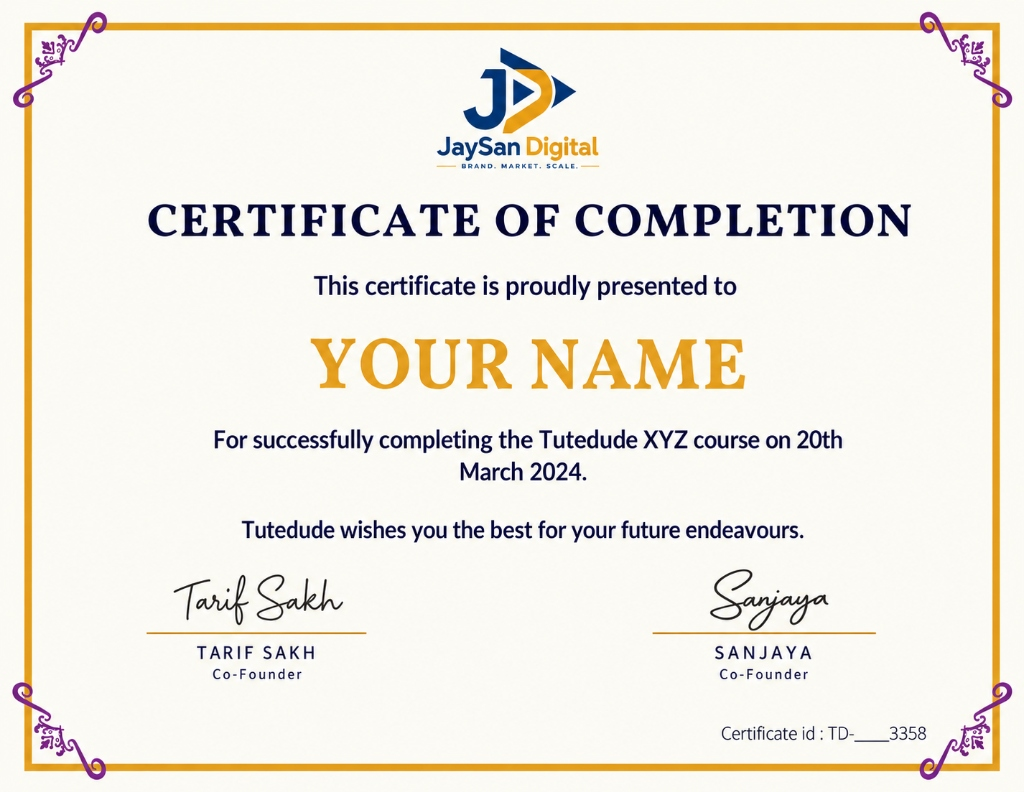
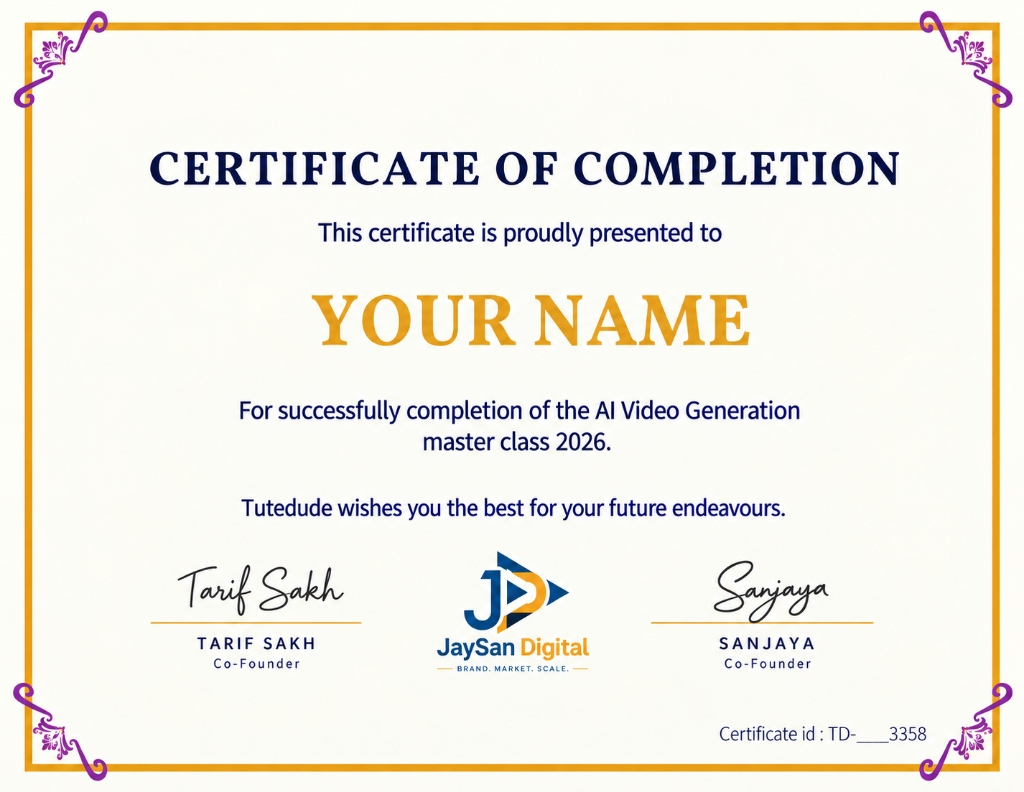
Add payment success page and update Razorpay payment flow

diff --git a/payment-success.html b/payment-success.html
@@ -1,0 +1,248 @@
+<!DOCTYPE html>
+<html lang="en">
+<head>
+  <meta charset="UTF-8">
+  <meta name="viewport" content="width=device-width, initial-scale=1.0">
+  <title>Payment Successful - JaySan Digital AI Creator Community</title>
+  <meta name="description" content="Your ₹99 payment has been completed successfully. Join the JaySan Digital WhatsApp Community now.">
+  
+  <!-- Preconnect Google Fonts -->
+  <link rel="preconnect" href="https://fonts.googleapis.com">
+  <link rel="preconnect" href="https://fonts.gstatic.com" crossorigin>
+  <link href="https://fonts.googleapis.com/css2?family=Inter:wght@300;400;500;600;700;800&family=Outfit:wght@400;500;600;700;800;900&display=swap" rel="stylesheet">
+  
+  <!-- FontAwesome Icons -->
+  <link rel="stylesheet" href="https://cdnjs.cloudflare.com/ajax/libs/font-awesome/6.4.0/css/all.min.css">
+  
+  <!-- Main Stylesheet -->
+  <link rel="stylesheet" href="style.css?v=28">
+  
+  <style>
+    body {
+      display: flex;
+      flex-direction: column;
+      min-height: 100vh;
+      background-color: var(--color-bg-primary);
+    }
+    
+    .success-page-main {
+      flex: 1;
+      display: flex;
+      align-items: center;
+      justify-content: center;
+      padding: 40px 20px;
+    }
+    
+    .success-card-standalone {
+      width: 100%;
+      max-width: 520px;
+      padding: 40px 30px;
+      border-radius: 24px;
+      background-color: var(--color-bg-secondary);
+      border: 1px solid var(--glass-border);
+      box-shadow: 0 20px 40px rgba(0, 36, 84, 0.08);
+      text-align: center;
+    }
+    
+    .success-icon-container {
+      font-size: 4.5rem;
+      color: #2ed573;
+      margin-bottom: 20px;
+    }
+    
+    .scale-up-icon {
+      animation: scale-up 0.5s cubic-bezier(0.175, 0.885, 0.32, 1.275) forwards;
+    }
+    
+    @keyframes scale-up {
+      from { transform: scale(0); opacity: 0; }
+      to { transform: scale(1); opacity: 1; }
+    }
+    
+    .success-title {
+      font-family: var(--font-title);
+      font-size: 2.2rem;
+      font-weight: 800;
+      color: var(--color-text-main);
+      margin-bottom: 12px;
+    }
+    
+    .success-subtitle {
+      font-size: 1.1rem;
+      font-weight: 600;
+      color: #27ae60;
+      margin-bottom: 8px;
+    }
+    
+    .success-message {
+      color: var(--color-text-muted);
+      font-size: 1rem;
+      margin-bottom: 25px;
+      line-height: 1.5;
+    }
+    
+    .redirect-card-box {
+      background-color: var(--color-bg-primary);
+      padding: 20px;
+      border-radius: 16px;
+      border: 1px solid var(--glass-border);
+      margin-bottom: 25px;
+    }
+    
+    .countdown-text {
+      font-size: 0.98rem;
+      color: var(--color-text-main);
+      font-weight: 600;
+      margin-bottom: 12px;
+    }
+    
+    .countdown-badge {
+      display: inline-block;
+      background: var(--color-primary);
+      color: #ffffff;
+      font-weight: 800;
+      padding: 2px 10px;
+      border-radius: 6px;
+      font-family: var(--font-title);
+    }
+    
+    .loading-bar-container {
+      width: 100%;
+      height: 8px;
+      background-color: #e2e8f0;
+      border-radius: 10px;
+      overflow: hidden;
+    }
+    
+    .loading-bar-progress {
+      width: 0%;
+      height: 100%;
+      background: linear-gradient(90deg, var(--color-primary), #2ed573);
+      border-radius: 10px;
+      transition: width 3s linear;
+    }
+    
+    .btn-whatsapp-community {
+      display: flex;
+      align-items: center;
+      justify-content: center;
+      gap: 12px;
+      width: 100%;
+      padding: 18px 24px;
+      border-radius: 50px;
+      font-family: var(--font-title);
+      font-size: 1.2rem;
+      font-weight: 800;
+      color: #ffffff;
+      background-color: #25d366;
+      text-decoration: none;
+      box-shadow: 0 8px 25px rgba(37, 211, 102, 0.35);
+      transition: var(--transition-smooth);
+    }
+    
+    .btn-whatsapp-community:hover {
+      background-color: #20ba5a;
+      transform: translateY(-2px);
+      box-shadow: 0 12px 30px rgba(37, 211, 102, 0.45);
+    }
+    
+    .fallback-note {
+      margin-top: 15px;
+      font-size: 0.88rem;
+      color: var(--color-text-muted);
+    }
+  </style>
+</head>
+<body>
+
+  <!-- Header -->
+  <header class="main-header" style="position: relative;">
+    <div class="header-container">
+      <div class="logo-container">
+        <a href="index.html" style="text-decoration: none; display: flex; align-items: center; gap: 12px; color: inherit;">
+          <img src="assets/logo (1).png" alt="JaySan Digital Logo" class="logo-img">
+          <span class="logo-text">JaySan Digital</span>
+        </a>
+      </div>
+    </div>
+  </header>
+
+  <!-- Main Content -->
+  <main class="success-page-main">
+    <div class="success-card-standalone">
+      
+      <!-- Checkmark Icon -->
+      <div class="success-icon-container">
+        <i class="fa-solid fa-circle-check scale-up-icon"></i>
+      </div>
+
+      <!-- Title & Confirmation -->
+      <h1 class="success-title">Payment Successful! 🎉</h1>
+      <p class="success-subtitle">Your ₹99 payment has been completed successfully.</p>
+      <p class="success-message">
+        Thank you for your payment.<br>
+        You can now join our <strong>WhatsApp Community</strong>.
+      </p>
+
+      <!-- Countdown & Progress Box -->
+      <div class="redirect-card-box">
+        <p class="countdown-text">
+          Redirecting to WhatsApp in <span id="countdown-num" class="countdown-badge">3</span> seconds...
+        </p>
+        <div class="loading-bar-container">
+          <div class="loading-bar-progress" id="progress-bar"></div>
+        </div>
+      </div>
+
+      <!-- Action Button -->
+      <a href="https://chat.whatsapp.com/DsQdAzZRgFU8bI6BQzmnLm" 
+         target="_blank" 
+         rel="noopener noreferrer" 
+         class="btn-whatsapp-community" 
+         id="btn-whatsapp-join">
+        <i class="fa-brands fa-whatsapp" style="font-size: 1.5rem;"></i> Join WhatsApp Community
+      </a>
+
+      <!-- Fallback Notice -->
+      <p class="fallback-note">
+        If WhatsApp does not open automatically, click the button above.
+      </p>
+
+    </div>
+  </main>
+
+  <!-- Footer -->
+  <footer style="text-align: center; padding: 20px; font-size: 0.85rem; color: var(--color-text-muted); border-top: 1px solid var(--glass-border);">
+    &copy; 2026 JaySan Digital Skill Academy. All rights reserved.
+  </footer>
+
+  <!-- Script for Countdown & Auto Redirect -->
+  <script>
+    document.addEventListener("DOMContentLoaded", () => {
+      const whatsappUrl = "https://chat.whatsapp.com/DsQdAzZRgFU8bI6BQzmnLm";
+      const countdownEl = document.getElementById("countdown-num");
+      const progressBar = document.getElementById("progress-bar");
+      let timeLeft = 3;
+
+      // Start progress bar animation
+      setTimeout(() => {
+        if (progressBar) progressBar.style.width = "100%";
+      }, 50);
+
+      // 1-second countdown interval
+      const timer = setInterval(() => {
+        timeLeft--;
+        if (countdownEl) {
+          countdownEl.textContent = timeLeft > 0 ? timeLeft : 0;
+        }
+
+        if (timeLeft <= 0) {
+          clearInterval(timer);
+          // Auto-redirect to WhatsApp
+          window.location.replace(whatsappUrl);
+        }
+      }, 1000);
+    });
+  </script>
+</body>
+</html>

diff --git a/index.html b/index.html
@@ -135,7 +135,7 @@
     </div>
 
     <div style="text-align: center; margin: 30px auto 10px auto; max-width: 900px; padding: 0 20px;">
-      <img src="assets/WhatsApp Image 2026-08-29 at 8.41.41 AM.jpeg" alt="Create Your Desired AI Video Like a PRO" style="width: 100%; height: auto; border-radius: 16px; box-shadow: 0 12px 35px rgba(0, 0, 0, 0.4); border: 1px solid var(--glass-border); display: block;">
+      <img src="assets/certificate_jaysan_digital_1.jpeg?v=3" alt="Create Your Desired AI Video Like a PRO" style="width: 100%; height: auto; border-radius: 16px; box-shadow: 0 12px 35px rgba(0, 0, 0, 0.4); border: 1px solid var(--glass-border); display: block;">
     </div>
 
     <section class="masterclass-section video-section" id="ai-video">
@@ -522,11 +522,11 @@
             <div class="cert-slider-track" id="cert-slider-track" style="display: flex; transition: transform 0.4s ease-in-out; width: 100%;">
               <!-- Slide 1 -->
               <div class="cert-slide" style="min-width: 100%; width: 100%; flex-shrink: 0; border-radius: 16px; overflow: hidden; border: 1px solid rgba(0,0,0,0.18); box-shadow: 0 8px 30px rgba(0,0,0,0.08); background: #ffffff;">
-                <img src="assets/certificate_jaysan_digital_1.jpeg" alt="JaySan Digital Certificate of Completion" loading="lazy" decoding="async" style="width: 100%; height: auto; display: block; object-fit: cover;">
+                <img src="assets/certificate_jaysan_digital_1.jpeg?v=3" alt="JaySan Digital Certificate of Completion" loading="lazy" decoding="async" style="width: 100%; height: auto; display: block; object-fit: cover;">
               </div>
               <!-- Slide 2 -->
               <div class="cert-slide" style="min-width: 100%; width: 100%; flex-shrink: 0; border-radius: 16px; overflow: hidden; border: 1px solid rgba(0,0,0,0.18); box-shadow: 0 8px 30px rgba(0,0,0,0.08); background: #ffffff;">
-                <img src="assets/certificate_jaysan_digital_2.jpeg" alt="JaySan Digital Certificate of Completion (Variant)" loading="lazy" decoding="async" style="width: 100%; height: auto; display: block; object-fit: cover;">
+                <img src="assets/certificate_jaysan_digital_2.jpeg?v=3" alt="JaySan Digital Certificate of Completion (Variant)" loading="lazy" decoding="async" style="width: 100%; height: auto; display: block; object-fit: cover;">
               </div>
             </div>
 
@@ -974,7 +974,7 @@
               <span class="accordion-icon"><i class="fa-solid fa-chevron-down"></i></span>
             </button>
             <div class="accordion-content">
-              <p>You’ll learn how to:<br>• Master Gen Ai Image Generation that blows people mind…<br>• Generate Scroll
+              <p>You’ll learn how to:<br>• Master in generating AI video as a pro<br>• Generate Scroll
                 Stopping Ai Brand Films that Generate views &amp; Gets Sales<br>• Monetize your Ai Brand Film Creation
                 Skill to make atleast 20-35k per video.</p>
             </div>
@@ -1006,7 +1006,7 @@
         </div>
 
         <!-- Orange CTA Banner Button -->
-        <a href="https://razorpay.me/@jaysandigital?amount=CVDUr6Uxp2FOGZGwAHntNg%3D%3D"
+        <a href="https://rzp.io/rzp/pUF7Ssh2"
           class="faq-orange-banner btn-join-now" style="text-decoration: none;" target="_blank">
           <div class="banner-title">Learn Cinematic AI Video Creation LIVE</div>
           <div class="banner-subtitle">No Team, No Editing, No Expensive Setup</div>
@@ -1072,7 +1072,7 @@
                 class="btn-upi-direct phonepe-btn-direct" style="text-decoration: none;">
                 <i class="fa-solid fa-mobile-screen"></i> Pay via PhonePe / GPay / Any UPI App
               </a>
-              <a href="https://razorpay.me/@jaysandigital?amount=CVDUr6Uxp2FOGZGwAHntNg%3D%3D"
+              <a href="https://rzp.io/rzp/pUF7Ssh2"
                 class="btn-upi-direct razorpay-btn-direct" style="text-decoration: none;" target="_blank">
                 <i class="fa-solid fa-qrcode"></i> Pay & Scan via Razorpay Gateway
               </a>
@@ -1177,7 +1177,7 @@
   </div>
 
   <!-- Scripts -->
-  <script src="app.js?v=7"></script>
+  <script src="app.js?v=8"></script>
 </body>
 
 </html>

diff --git a/app.js b/app.js
@@ -23,7 +23,7 @@ const CONFIG = {
 
   // Razorpay Hosted Payment Page link. Set to "" to run in simulation mode. 
   // Paste your active Razorpay Payment Page URL here when going live.
-  razorpayPageLink: "https://razorpay.me/@jaysandigital?amount=CVDUr6Uxp2FOGZGwAHntNg%3D%3D",
+  razorpayPageLink: "https://rzp.io/rzp/pUF7Ssh2",
 };
 
 document.addEventListener("DOMContentLoaded", () => {
@@ -222,10 +222,10 @@ function initPaymentModal() {
     window.location.href = CONFIG.whatsappLink;
   });
 
-  // Auto-trigger WhatsApp redirect modal if returning from payment redirect with success status
+  // Auto-redirect to dedicated payment-success.html if returning from legacy payment query string
   const urlParams = new URLSearchParams(window.location.search);
   if (urlParams.get("payment") === "success" || urlParams.get("status") === "success" || urlParams.get("paid") === "true") {
-    showSuccessModal(urlParams.get("txnid") || ("TXN_" + Date.now()));
+    window.location.href = "payment-success.html";
   }
 
   function openModal() {
